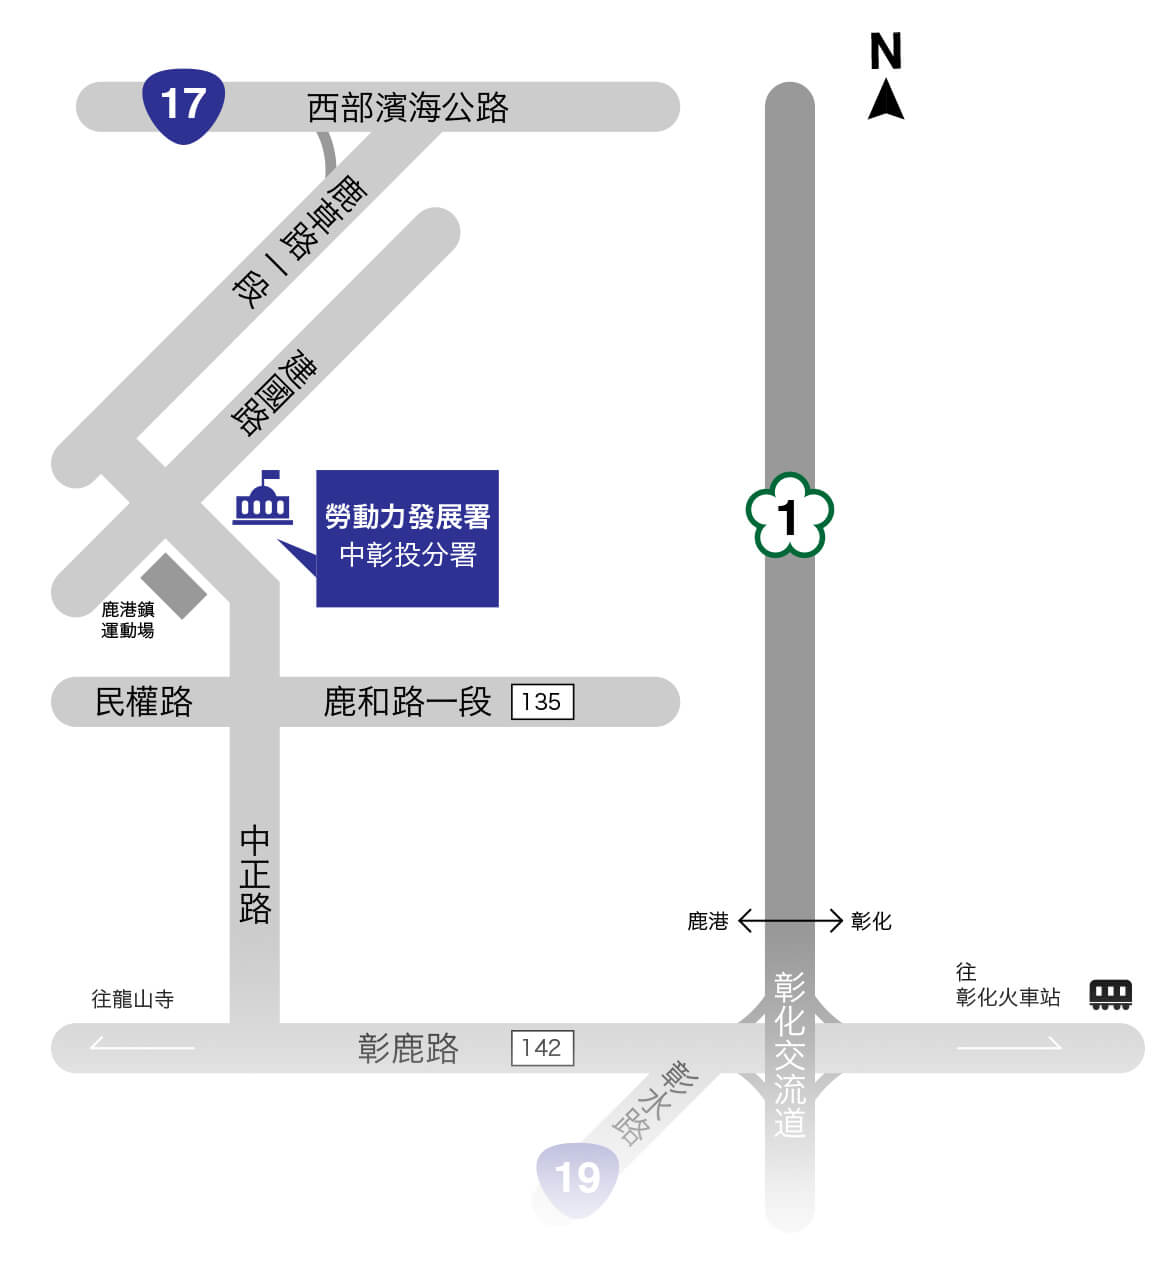
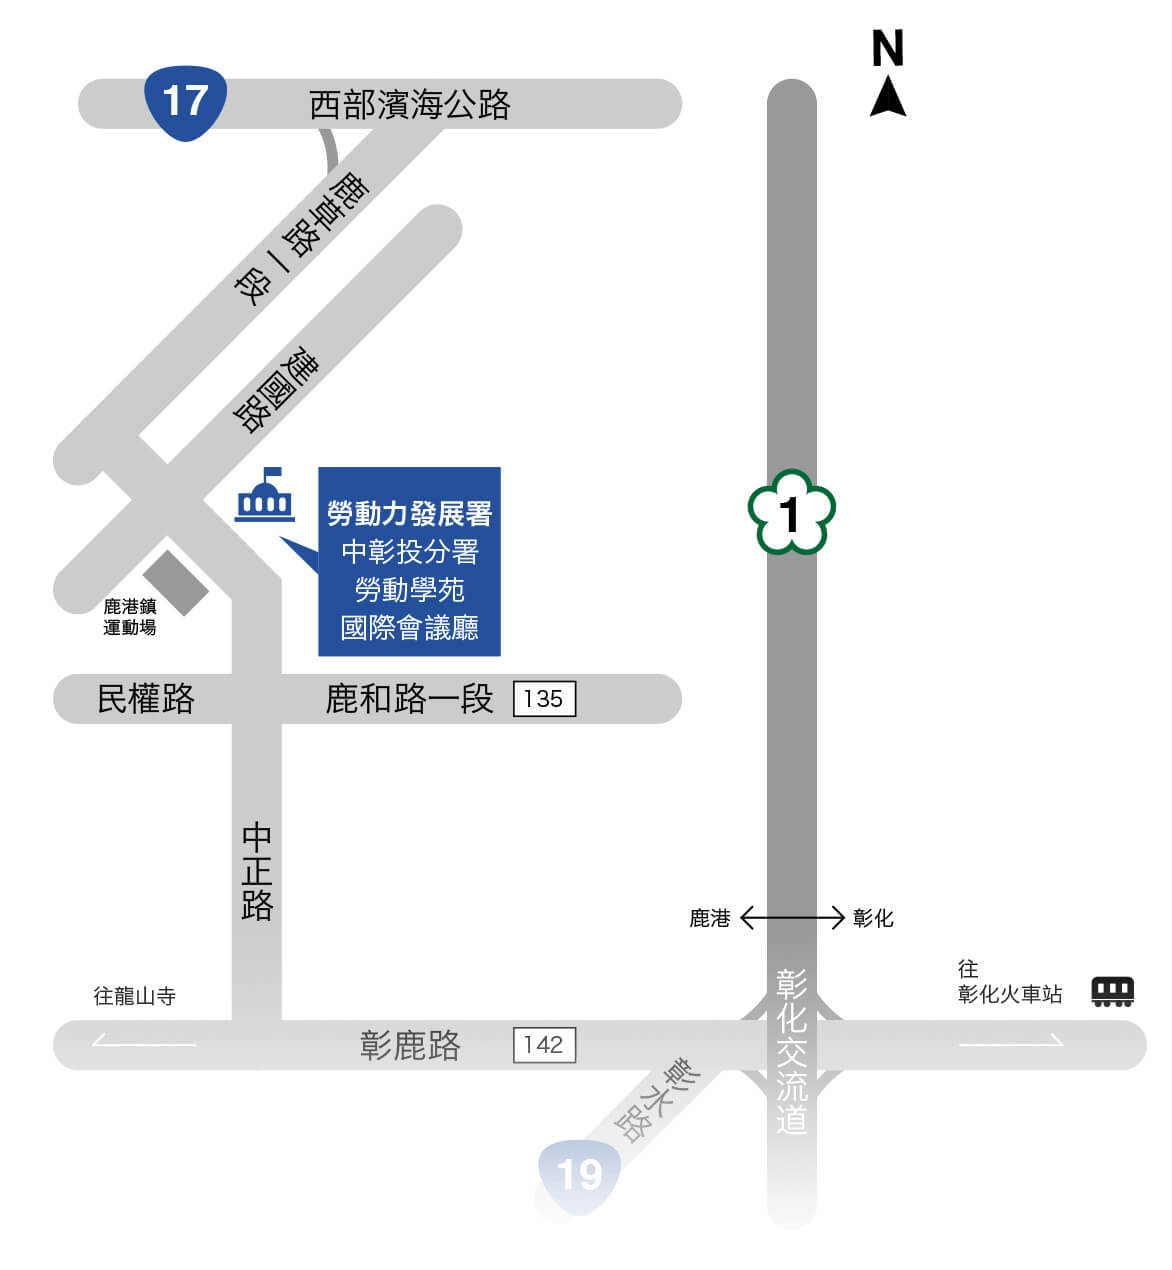
客戶回饋bug

diff --git a/pages/index.vue b/pages/index.vue
@@ -63,7 +63,7 @@
                             </div>
                             <h4 class="f_grey f18">
                                 <h5 class="f18 poA">{{ slide.subject }}</h5>
-                                {{ slide.hashtag }}
+                                <font v-html="slide.hashtag"></font>
                             </h4>
                         </div>
                     </div>
@@ -107,7 +107,7 @@
                         <select name="" id="event" v-model="formObj.session" required="required">
                             <option value="台中場">台中場</option>
                             <!-- //FIXME: 彰化場 -->
-                            <option value="彰化場">彰化場</option>
+                            <!-- <option value="彰化場">彰化場</option> -->
                         </select>
                         <i class="arrow"></i>
                     </div>
@@ -122,6 +122,7 @@
                     <div class="tr">
                         <p class="optional">身分證字號</p>
                         <input type="text" name="rocid" v-model="formObj.rocid">
+                        <font class="f15 f_grey">(須申請公務人員學習時數者提供)</font>
                     </div>
                     <div class="tr t_left">
                         <input type="checkbox" name="" id="agreement" v-model="agreement" required="required">
@@ -153,13 +154,13 @@
                         <div class="event">
                             <p class="time">13:30 – 14:00</p>
                             <p class="dot"></p>
-                            <div class="subject">與會人員/貴賓報到</div>
+                            <div class="subject">報到</div>
 
                         </div>
                         <div class="event">
                             <p class="time">14:00 – 14:05</p>
                             <p class="dot"></p>
-                            <div class="subject">活動開場/長官致詞</div>
+                            <div class="subject">活動開場</div>
 
                         </div>
                         <div class="event">
@@ -180,7 +181,7 @@
                             <div class="subject">
                                 <h2 class="f18 f_white">專題演講二</h2>
                                 <span class="f_blue">
-                                    隊員變教練──迎向數位轉型，
+                                    迎向數位轉型，<br>
                                     人資要比老闆清楚的那件事
                                 </span>
                             </div>
@@ -192,24 +193,19 @@
                             <div class="subject">
                                 <h2 class="f18 f_white">綜合座談暨交流Q&A</h2>
                                 <span class="f_blue">
-                                    智慧浪潮來襲，
+                                    智慧浪潮來襲，<br>
                                     HR如何領軍站上浪頭
                                 </span>
                             </div>
 
                         </div>
                         <div class="event">
-                            <p class="time">16:25 – 16:30</p>
+                            <p class="time">16:25 –</p>
                             <p class="dot"></p>
-                            <div class="subject">大合影</div>
+                            <div class="subject">散場</div>
 
                         </div>
-                        <div class="event">
-                            <p class="time">16:30 – </p>
-                            <p class="dot"></p>
-                            <div class="subject">散場/發放餐盒</div>
-
-                        </div>
+                        
                     
                     </div>
                         
@@ -217,13 +213,13 @@
                         <div class="event">
                             <p class="time">13:30 – 14:00</p>
                             <p class="dot"></p>
-                            <div class="subject">與會人員/貴賓報到</div>
+                            <div class="subject">報到</div>
 
                         </div>
                         <div class="event">
                             <p class="time">14:00 – 14:05</p>
                             <p class="dot"></p>
-                            <div class="subject">活動開場/長官致詞</div>
+                            <div class="subject">活動開場</div>
 
                         </div>
                         <div class="event">
@@ -232,8 +228,8 @@
                             <div class="subject">
                                 <h2 class="f18 f_white">專題演講一</h2>
                                 <span class="f_blue">
-                                    跟對老闆不如幫對老闆-<br />
-                                    二代接班的 HR角色怎麼演?
+                                    跟對老闆不如幫對老闆<br />
+                                    ── 二代接班的HR角色怎麼演?
                                 </span>
                             </div>
 
@@ -245,7 +241,7 @@
                                 <h2 class="f18 f_white">專題演講二</h2>
                                 <span class="f_blue">
                                     老將or新兵?用對的都是好兵! <br />
-                                    ──HR的跨世代用人哲學
+                                    ── HR的跨世代用人哲學
                                 </span>
                             </div>
 
@@ -262,15 +258,10 @@
 
                         </div>
                         <div class="event">
-                            <p class="time">16:25 – 16:30</p>
+                            <p class="time">16:25 –</p>
                             <p class="dot"></p>
-                            <div class="subject">大合影</div>
+                            <div class="subject">散場</div>
 
-                        </div>
-                        <div class="event">
-                            <p class="time">16:30 – </p>
-                            <p class="dot"></p>
-                            <div class="subject">散場/發放餐盒</div>
                         </div>
                         
                     </div>
@@ -333,7 +324,7 @@ export default {
         carouselCurrent: 0,
         schedualCurrent: 0,
         locationCurrent: 0,
-        sessions: [{time: '11/6', name: '台中場', location: '台中市407西屯區科園路19號', place: '中興大學中科校區<br>育成推廣組國際會議廳'},{time: '11/14', name: '彰化場', location: '50544彰化縣鹿港鎮中正路588號', place: '勞動力發展署中彰投分署-<br>勞動學院國際會議廳'}],
+        sessions: [{time: '11/6', name: '台中場', location: '台中市西屯區科園路19號', place: '國立中興大學中科校區<br>育成推廣組國際會議廳'},{time: '11/14', name: '彰化場', location: '彰化縣鹿港鎮中正路588號', place: '勞動力發展署中彰投分署-<br>勞動學苑國際會議廳'}],
         swiperOption: {
             loop: true,
             slidesPerView: 3,
@@ -379,12 +370,11 @@ export default {
         popupMsg: '',
         allSpeakers: [
             //FIXME: 彰化場
-            {session: '台中場', name:'簡士評', photo: require('@/assets/img/speaker-1.jpg'), title: 'MAYO創辦人暨執行長', subject:'專題演講一', hashtag: '#新科技帶來新企業，未來人才你挑對了嗎?'},
-            {session: '台中場', name:'謝鄭忠', photo: require('@/assets/img/speaker-2.jpg'), title: '宇瞻科技行政服務處處長', subject:'專題演講二', hashtag: '#從隊員變教練 ── 迎向數位轉型，人資要比老闆清楚的那件事'},
-            {session: '台中場', name:'孫弘岳', photo: require('@/assets/img/speaker-3.jpg'), title: '國立臺灣師範大學科技應用與<br />人力資源發展學系助理教授', subject:'綜合座談暨交流Q&A ', hashtag: '#智慧浪潮來襲，HR如何領軍站上浪頭'},
-            {session: '彰化場', name:'陳茂欽', photo: require('@/assets/img/speaker-4.jpg'), title: '玉山金控總部策略長', subject:'專題演講一', hashtag: '##跟對老闆不如幫對老闆 ── 二代接班的HR角色怎麼演?'},
-            {session: '彰化場', name:'鍾喜梅', photo: require('@/assets/img/speaker-5.jpg'), title: '義守大學企管系教授', subject:'專題演講二', hashtag: '#老將or新兵?用對的都是好兵! ── HR的跨世代用人哲學'},
-            {session: '彰化場', name:'林文政', photo: require('@/assets/img/speaker-6.jpg'), title: '國立中央大學<br />人力資源管理研究所副教授', subject:'綜合座談暨交流Q&A ', hashtag: '#輔佐繼承者們HR成功秘笈'},
+            {session: '台中場', name:'謝鄭忠', photo: require('@/assets/img/speaker-2.jpg'), title: '宇瞻科技行政服務處處長', subject:'專題演講二', hashtag: '#迎向數位轉型，<br />人資要比老闆清楚的那件事'},
+            {session: '台中場', name:'盧世安', photo: require('@/assets/img/speaker-1.jpg'), title: '人資小週末專業社群創辦人', subject:'綜合座談暨交流Q&A ', hashtag: '#智慧浪潮來襲，<br />HR如何領軍站上浪頭'},
+            // {session: '彰化場', name:'陳茂欽', photo: require('@/assets/img/speaker-4.jpg'), title: '玉山金控總部策略長', subject:'專題演講一', hashtag: '#跟對老闆不如幫對老闆<br />── 二代接班的HR角色怎麼演?'},
+            // {session: '彰化場', name:'鍾喜梅', photo: require('@/assets/img/speaker-5.jpg'), title: '義守大學企管系教授', subject:'專題演講二', hashtag: '#老將or新兵?用對的都是好兵!<br />── HR的跨世代用人哲學'},
+            // {session: '彰化場', name:'林文政', photo: require('@/assets/img/speaker-6.jpg'), title: '國立中央大學<br />人力資源管理研究所副教授', subject:'綜合座談暨交流Q&A ', hashtag: '#輔佐繼承者們HR成功秘笈'},
         ],
 
       }
@@ -427,12 +417,12 @@ export default {
         },
         //FIXME: 彰化場
         schedualTabHandler(index) {
-            // return false;
+            return false;
             this.schedualCurrent = index;
         },
         //FIXME: 彰化場
         locationTabHandler(index) {
-            // return false;
+            return false;
             this.locationCurrent = index;
         },
         onSubmit(e) {
@@ -931,7 +921,7 @@ img {
     .location {
         position: relative;
         //FIXME: 彰化場
-        cursor: pointer;
+        // cursor: pointer;
         width: 100%;
         line-height: 1.2;
         margin-bottom: 80px;
@@ -949,22 +939,22 @@ img {
             font-family: 'Oswald', sans-serif;
         }
         //FIXME: 彰化場
-        // &:nth-child(2) {
-        //     h6:after {
-        //         content: '(敬請期待)';
-        //         display: block;
-        //         font-family: 'Noto Sans TC', sans-serif;
-        //         font-size: 20px;
-        //         letter-spacing: 1px;
-        //         @media (max-width: 599px){
-        //             font-size: 16px;
-        //         }
-        //     }
-        // }
-        //FIXME: 彰化場
-        &:hover {
-            opacity: .6;
+        &:nth-child(2) {
+            h6:after {
+                content: '(敬請期待)';
+                display: block;
+                font-family: 'Noto Sans TC', sans-serif;
+                font-size: 20px;
+                letter-spacing: 1px;
+                @media (max-width: 599px){
+                    font-size: 16px;
+                }
+            }
         }
+        //FIXME: 彰化場
+        // &:hover {
+        //     opacity: .6;
+        // }
         .bg_grey {
             padding: 30px;
             position: relative;
@@ -1266,6 +1256,16 @@ input[type='checkbox']:checked {
             top: 58px;
             right: 10px;
 
+        }
+    }
+    font {
+        width: calc(100% - 107px);
+        display: block;
+        float: right;
+        text-align: left;
+        padding: 5px 0 0;
+        @media (max-width: 599px){
+            width: 100%;
         }
     }
     

diff --git a/components/Footer.vue b/components/Footer.vue
@@ -21,7 +21,7 @@
         <br>
        
         <p class="f14"><br>Copyright© 1999~2019遠見天下文化出版股份有限公司. All rights reserved.</p>
-        <p class="f14">讀者服務電話：(02)26620012 時間：週一至週五9:00～12:30；13:30～17:00 服務信箱：gvm@cwgw.com.tw</p>
+        <p class="f14">聯絡人：遠見雜誌 張小姐 02-2517 3688 #861 alice910311@cwgv.com.tw</p>
     </div>
 </template>
 <script>

diff --git a/nuxt.config.js b/nuxt.config.js
@@ -1,10 +1,7 @@
-  
-const { resolve } = require('path');
-
 export default {
-  router: {
-    base: '/GVM_dist/'
-  },
+  // router: {
+  //   base: '/GVM_dist/'
+  // },
   mode: 'universal',
   /*
   ** Headers of the page
